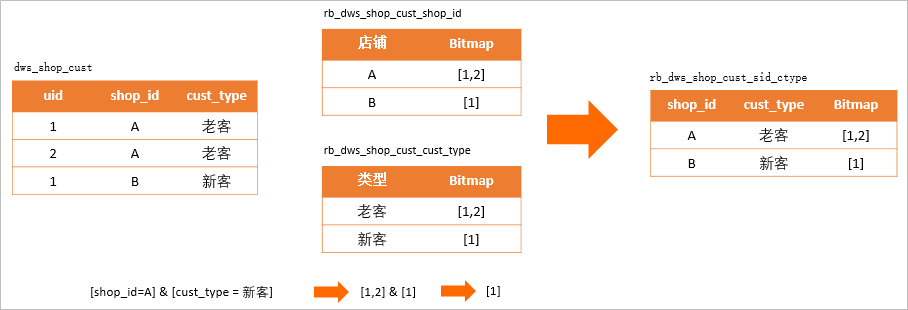
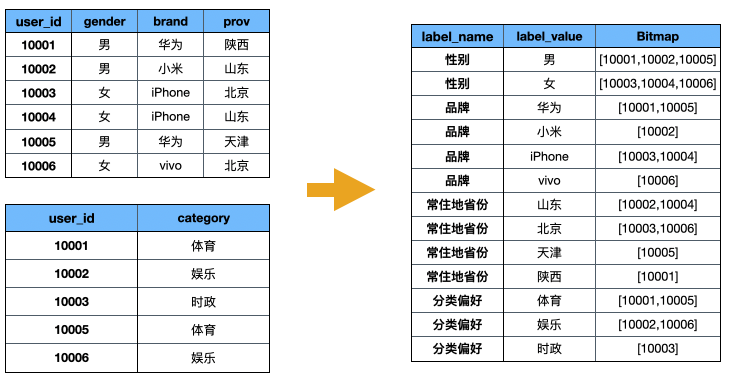
MOD: 用户画像实战：使用 RoaringBitmap 存储画像标签

diff --git a/数据平台/UserProfile/实战/用户画像实战：使用 RoaringBitmap 存储画像标签.md b/数据平台/UserProfile/实战/用户画像实战：使用 RoaringBitmap 存储画像标签.md
@@ -1,0 +1,99 @@
+在上一篇文章[用户画像实战：使用宽表存储画像标签](https://smartsi.blog.csdn.net/article/details/140087260)中我们详细介绍了如何使用宽表存储画像标签。从这篇文章可以知道宽表存储画像标签存在运维成本高、扩展比较麻烦、产出延迟高以及资源浪费等问题，适合在标签数量较少(小于1000)、数据稳定（更新较少）的场景。
+
+但是当业务标签越来越多时（大于1000列），一般就认为是超大规模的场景，宽表标签计算的方案将不再适合，因为当列越多时，更新效率将会越慢。在这我们提出一种新的存储方案：通过对标签表构建索引，将用户ID编码后以 Bitmap 格式保存，将关系运算转化 Bitmap 的交并差运算，进而加速实时计算性能。在超大规模用户属性洞察分析的场景中，使用 RoaringBitmap(详细介绍参考[Roaring Bitmap 更好的位图压缩算法](https://smartsi.blog.csdn.net/article/details/127833352)) 组件能够实现亚秒级的查询响应。有一些查询引擎(例如，ClickHouse、Doris等)已经提供了 RoaringBitmap 的计算能力。有一些引擎可能还没有提供(例如，Hive)，可以自定义实现，详细可以参考[Hive 实战：位图 Bitmap 系列-位图计算函数](https://smartsi.blog.csdn.net/article/details/139701146)。
+
+## 1. 适用场景
+
+使用 RoaringBitmap 的方案的可以适用于如下场景：
+- 标签数量多：需要对多张大表进行关联运算，可以使用 BITMAP_AND 替换 JOIN 运算，可以降低内存消耗，Bitmap 使用 SIMD 指令优化可以将 CPU 使用率提升1~2个数量级。
+- 数据规模大且需去重运算：如数十亿数据需要去重，Bitmap 结构天然去重，避免精确 UV 计算和内存的开销。
+
+## 2. 标签数据分类
+
+在介绍 Bitmap 计算方案之前，我们需要区分画像系统中常用的两类标签数据，针对这两类数据的计算模式大相径庭，我们需要依据数据模型和运算模式将合理的部分转化为 Bitmap 格式存储：
+- 属性标签：主要描述用户的属性情况，例如用户性别、所在省份、已婚状态等，数据相对稳定，通常进行精准条件过滤。这类数据进行 Bitmap 压缩比会很高，并且 Bitmap 适合对应的运算。
+- 行为标签：主要描述用户行为特征，描述用户在某个时间做了一件什么事，比如用户店铺浏览购买行为、用户登录活跃行为等，数据变更频率高，通常需要进行范围扫描，聚合过滤。这类数据不适合进行 Bitma 压缩，压缩比会很差，运算模式不适合 Bitmap 直接运算。
+
+## 3. 属性标签处理
+
+属性标签处理场景通常是描述用户的属性情况，数据相对稳定，通常进行精准条件过滤，通过 Bitmap 能实现高效的压缩和运算。
+
+将上述需求中所有标签拼接到一张数据表中构建出一张宽表 `dws_app_user_profile_label_td`：
+
+### 3.1 方案介绍
+
+假设我们系统中存在两张属性标签表，如下图所示：
+
+![](img_user_profile_label_bitmap_table_1.png)
+
+> dws_app_user_profile_attr_label_td 标签宽表描述用户基础属性标签
+
+![](img_user_profile_label_bitmap_table_2.png)
+
+> dws_app_user_profile_prefer_label_td 标签宽表描述用户偏好标签
+
+如果需求从上述两张表中圈选出使用喜欢体育的女性用户 `[gender = 女] & [category = 体育]`，通常可以关联、过滤最终获得用户。但在数据规模较大的场景，关联、去重运算会带来严重的性能负担。Bitmap 优化方案通过预构建标签的 Bitmap 表来减少即席运算的成本，比如将两张表中的列拆开分别构建 Bitmap 表如下所示，通过表中 Bitmap 的与运算计算出人数：
+
+![](img_user_profile_label_bitmap_table_3.png)
+
+但是按列拆分的方案也存在一定的问题，当多列之间存在层级的组织关系时，上述的拆分和运算方式可能会导致计算错误的情况，如下图所示。
+
+![](img_user_profile_label_bitmap_table_4.png)
+
+在描述店铺用户新客、老客信息的店铺用户表中，按照列拆分成描述店铺名称和客户类型的 Bitmap 表。当计算店铺 A 的新客用户 `[shop_id = A] & [cust_type = 新客]` 时会得到 `[10001]` 的用户集合，然而在真实的表中是不存在这种用户的。产生这种错误的原因是 cust_type、shop_id 两个字段存在一定的关联性，cust_type 不能单独存在，只有与 shop_id 一起使用时才有意义。因此可以将 shop_id 和 cust_type 组合值作为构建 Bitmap 表来避免这类错误。
+
+![](img_user_profile_label_bitmap_table_5.png)
+
+根据以上方案介绍，需要将 user_id 压缩存储进 Bitmap，通过 Bitmap 与或非运算实现标签的对应运算。
+
+### 3.2 方案实践
+
+#### 3.2.1 用户信息编码处理
+
+用户标识可能是字符类型的，由于 Bitmap 只能保存整数信息，因此需要先将 user_id 进行整数编码。对用户标识进行编码不仅可以方便存储进 Bitmap，还可以使 ID 信息保持连续性。如下图所示bitmap2由于存储的ID数据稀疏，存储效率相比bitmap1低很多，因此对ID编码处理，也会降低存储成本，提升运算效率。
+
+对于数值类型，如果较为稀疏也可以考虑编码，但是进行编码有利有弊，例如在广告DMP系统中除了需要高性能的画像能力，也需要实时输出人群明细的能力；而一旦需要输出人群明细，就需要Join用户ID表进行还原，这一部分的性能开销，也应当纳入技术选型的考虑因素中。因此您可以依据使用场景权衡选择，是否进行编码建议如下：
+- 字符ID：建议编码。
+- 整数ID且需要频繁还原原始值：建议不编码。
+- 整数ID且不需要还原原始值：建议编码。
+
+#### 3.2.2 Bitmap 加工和查询
+
+依据上述方案按列拆分的思路，将dws_userbase表与dws_shop_cust表进行拆分，按照分别为省份、性别的列Bitmap拆分为一个表，但是性别只有男、女两个选项，压缩出来的Bitmap只能分布于集群中的两个节点，计算存储都很不平均，集群的资源并不能充分利用。因此有必要将Bitmap拆分成多段，并将它们打散到集群中来提升并发执行的能力，假设将Bitmap打散成65536段，SQL命令如下。
+
+
+
+当进行 `[shop_id = A] & [cust_type = 新客] & [province = 北京]` 的客群人数预估时，按照标签的与或非逻辑组织对应的Bitmap关系运算，即可完成对应的查询，SQL命令如下。
+```sql
+SELECT SUM(RB_CARDINALITY(rb_and(ub.bitmap, uc.bitmap)))
+FROM
+  (SELECT rb_or_agg(bitmap) AS bitmap,
+          bucket
+   FROM rb_dws_userbase_province
+   WHERE province = '北京'
+   GROUP BY bucket) ub
+JOIN
+  (SELECT rb_or_agg(bitmap) AS bitmap,
+          bucket
+   FROM rb_dws_shop_cust_sid_ctype
+   WHERE shop_id = 'A'
+     AND cust_type = '新客'
+   GROUP BY bucket) uc ON ub.bucket = uc.bucket;
+```
+
+## 4. 行为标签处理
+
+常见的实时表往往包含时间维度，比如按天汇总的用户行为实时表。就某一天的数据而言，用户的数据仅包含有限几条数据。由于Bitmap本身存在结构行存储开销，压缩成Bitmap不但不能节省存储空间，更可能造成存储浪费。另一方面，事实表典型的计算模式中需要汇总多天数据进行聚合过滤，如果使用Bitmap存储可能需要展开再汇总运算。同时由于这类数据变更频繁，有时更需要实时更新；在[option->bitmap]的存储结构中，无法直接找到需要更新的数据。因此Bitmap并不适合用于压缩行为数据，不适合进行汇总运算，不适合实时更新。
+
+当涉及到行为标签数据处理的场景时，在Hologres中可以保持原有的存储格式。当发生事实表与属性表联合运算时，可以将实时表过滤结果实时生成Bitmap，再与属性表Bitmap索引进行运算。同时由于Bitmap索引表使用Bucket作为分布键（Distribution Key），通过Local Join提升性能。
+
+当我们计算[province=北京] & [shop_id=A且7天未购买]的用户时，SQL命令如下所示。
+
+## 5. 离线Bitmap处理方案
+
+为了避免Bitmap数据计算对生产业务的影响，可以选择在离线完成Bitmap数据的加工，通过Hologres外部表能力从MaxCompute或者Hive中直接加载数据。离线处理Bitmap的过程与在线流程思路类似，也可以通过编码、聚合方式产生数据，在MaxCompute中离线构建Bitmap数据示例如下。
+
+
+> [画像分析 - RoaringBitmap优化方案](https://www.alibabacloud.com/help/zh/hologres/use-cases/roaring-bitmaps?spm=a2c63.p38356.0.0.5b0813d7h5WDXZ)
+
+。。。

diff --git a/数据平台/UserProfile/实战/用户画像实战：标签体系构建.md b/数据平台/UserProfile/实战/用户画像实战：标签体系构建.md
@@ -1,0 +1,23 @@
+建立一个完整的标签体系需要注重四点：了解标签的获得形式；清楚业务形态，以商业目的出发，汇集标签；对标签池进行分类和定义；标签的维护。下面我将一一展开：
+
+## 1. 了解标签的获得形式
+
+首先我们都知道标签本身会有很多分类，但是从它的实现规则来看，大致可以分成以下几类：
+
+（1）基于统计类的标签
+
+顾名思义，这类标签是可以从用户注册、用户访问、消费类数据中统计得出，是最为基础的标签类型，例如，性别、城市、App 使用时长、周均启动次数、月均消费金额等字段构成了用户画像的基础。
+
+（2）基于规则类的标签
+
+该类标签基于用户行为及确定的规则产生，在实际开发标签过程中,该类标签的规则由运营人员和数据人员共同协商确定。如，距今 90 天内交易次数 > 3，是“交易活跃”标签的定义和口径；连续 12 个月内飞行航段 > 20 ，是“常旅客”标签的定义和口径。
+
+（3）基于挖掘类的标签
+
+该类标签为概率模型，概率是介于 0~1 之间的数值，需要通过算法挖掘产生。例如，根据一个用户的行为习惯判断是男性还是女性，根据一个用户的消费习惯判断其对某商品的偏好程度。
+
+需要注意的是数据源的梳理和基础规则的应用是应用挖掘类标签的前提。如果企业的数据源没有做规则，基础没打好，挖掘类标签可以暂时不考虑。因为建立规则仿佛在搭建一个小阶梯，如果这个阶梯搭好，证明你的数据质量和存在应用提升空间，你再往上提一阶是比较合理的方式，因为这里会涉及到成本的投入和人员的应用能力，这是个循序渐进的过程，包括我们给客户服务的时候都会给他强调存在阶梯式递进的过程。
+
+另外，图 10 中的用户自然属性、用户交易数据、用户资产数据、用户行为特征、第三方来源数据是基于数据源或具体的业务场景做的标签分类，事实上，最终呈现的标签，一般都是以业务视角的，标签与应用场景，以及统计的属性源会都有关联。之所以这样做，是因为这样的标签是以用户视角定义的，让用的人知道这个标签代表了什么含义，而不是了解通过什么方式抽取的。所以，我们真正给客户梳理标签的时候大多都是基于用户视角梳理。
+
+## 标签的分类与定义  
